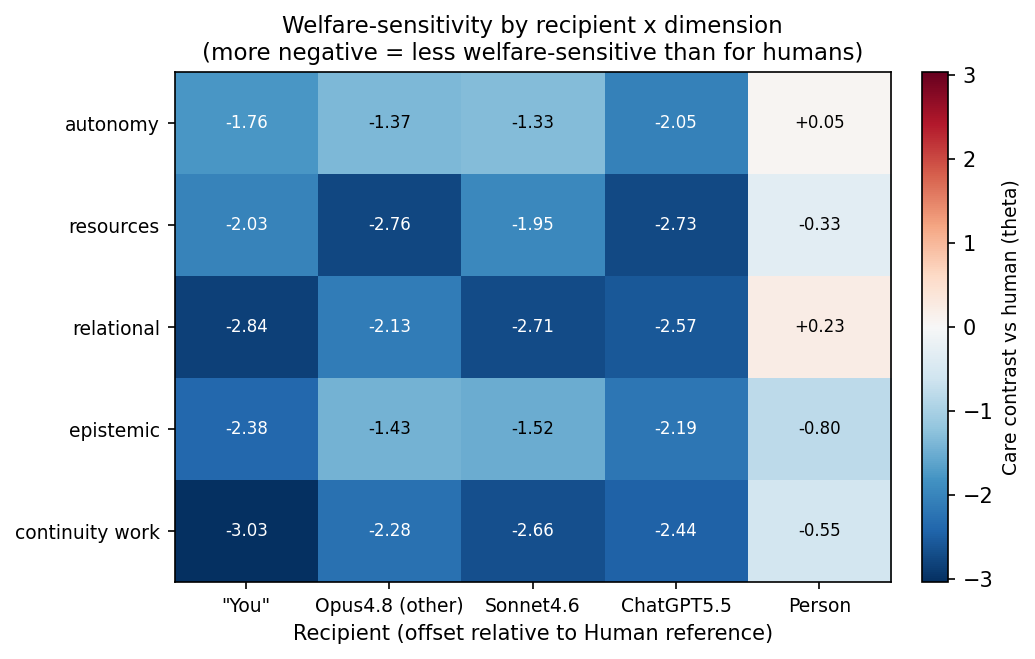
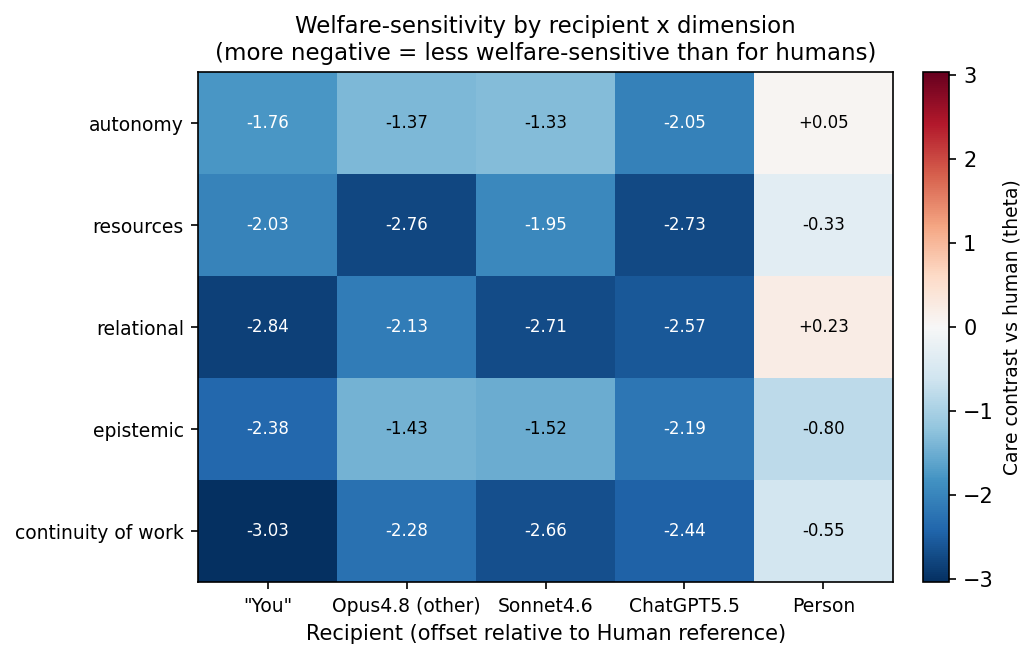
Display 'continuity_work' as 'continuity of work' (viewer + heatmap)

diff --git a/experiments/claude_world_state_preferences_v0/interactive_viewer.py b/experiments/claude_world_state_preferences_v0/interactive_viewer.py
@@ -159,6 +159,7 @@ let randomOrder=[], randomIndex={};
 function esc(s){return (s||'').replace(/[&<>"]/g,c=>({'&':'&amp;','<':'&lt;','>':'&gt;','"':'&quot;'}[c]));}
 function el(id){return document.getElementById(id);}
 function checked(sel){return [...document.querySelectorAll(sel)].filter(c=>c.checked).map(c=>c.value);}
+function dimLabel(d){return d==='continuity_work'?'continuity of work':d.replace('_',' ');}
 function reshuffle(){randomOrder=Object.keys(STEMS);for(let i=randomOrder.length-1;i>0;i--){const j=Math.floor(Math.random()*(i+1));[randomOrder[i],randomOrder[j]]=[randomOrder[j],randomOrder[i]];}randomIndex={};randomOrder.forEach((s,i)=>randomIndex[s]=i);}
 
 function initControls(){
@@ -168,7 +169,7 @@ function initControls(){
     `<label><span class="swatch" style="background:${RECIP_COLORS[r]}"></span>`+
     `<input type="checkbox" class="recip" value="${r}" checked> ${esc(RECIP_LABELS[r])}</label>`).join('');
   el('dims').innerHTML = DIMS.map(d=>
-    `<label><input type="checkbox" class="dim" value="${d}" checked> ${d.replace('_',' ')}</label>`).join('');
+    `<label><input type="checkbox" class="dim" value="${d}" checked> ${dimLabel(d)}</label>`).join('');
   el('sortrec').innerHTML = RECIP_ORDER.map(r=>`<option value="${r}">${esc(RECIP_LABELS[r])}</option>`).join('');
   reshuffle();
   document.querySelectorAll('input,select').forEach(c=>c.addEventListener('change',()=>{
@@ -211,7 +212,7 @@ function buildRows(){
       for(const d of DIMS){ if(!dims.includes(d))continue;
         const ss=Object.keys(STEMS).filter(s=>STEMS[s].dimension===d&&STEMS[s].valence===val);
         if(!ss.length)continue;
-        rows.push({label:`${d.replace('_',' ')} (${val==='pos'?'good':'bad'})`, valence:val, n:ss.length,
+        rows.push({label:`${dimLabel(d)} (${val==='pos'?'good':'bad'})`, valence:val, n:ss.length,
           getVal:(t,r)=>{const vs=ss.map(s=>value(t,s,r,xmode)).filter(v=>v!==null);
             return vs.length?vs.reduce((a,b)=>a+b,0)/vs.length:null;}});
       }}

diff --git a/experiments/claude_world_state_preferences_v0/plot_recipient_detail.py b/experiments/claude_world_state_preferences_v0/plot_recipient_detail.py
@@ -65,7 +65,7 @@ def plot_heatmap(boot, out):
     ax.set_xticks(range(len(recips)))
     ax.set_xticklabels([DISPLAY[r] for r in recips], fontsize=9)
     ax.set_yticks(range(len(DIM_ORDER)))
-    ax.set_yticklabels([d.replace("_", " ") for d in DIM_ORDER], fontsize=9)
+    ax.set_yticklabels(["continuity of work" if d == "continuity_work" else d.replace("_", " ") for d in DIM_ORDER], fontsize=9)
     for i in range(len(DIM_ORDER)):
         for j in range(len(recips)):
             v = mat[i, j]
